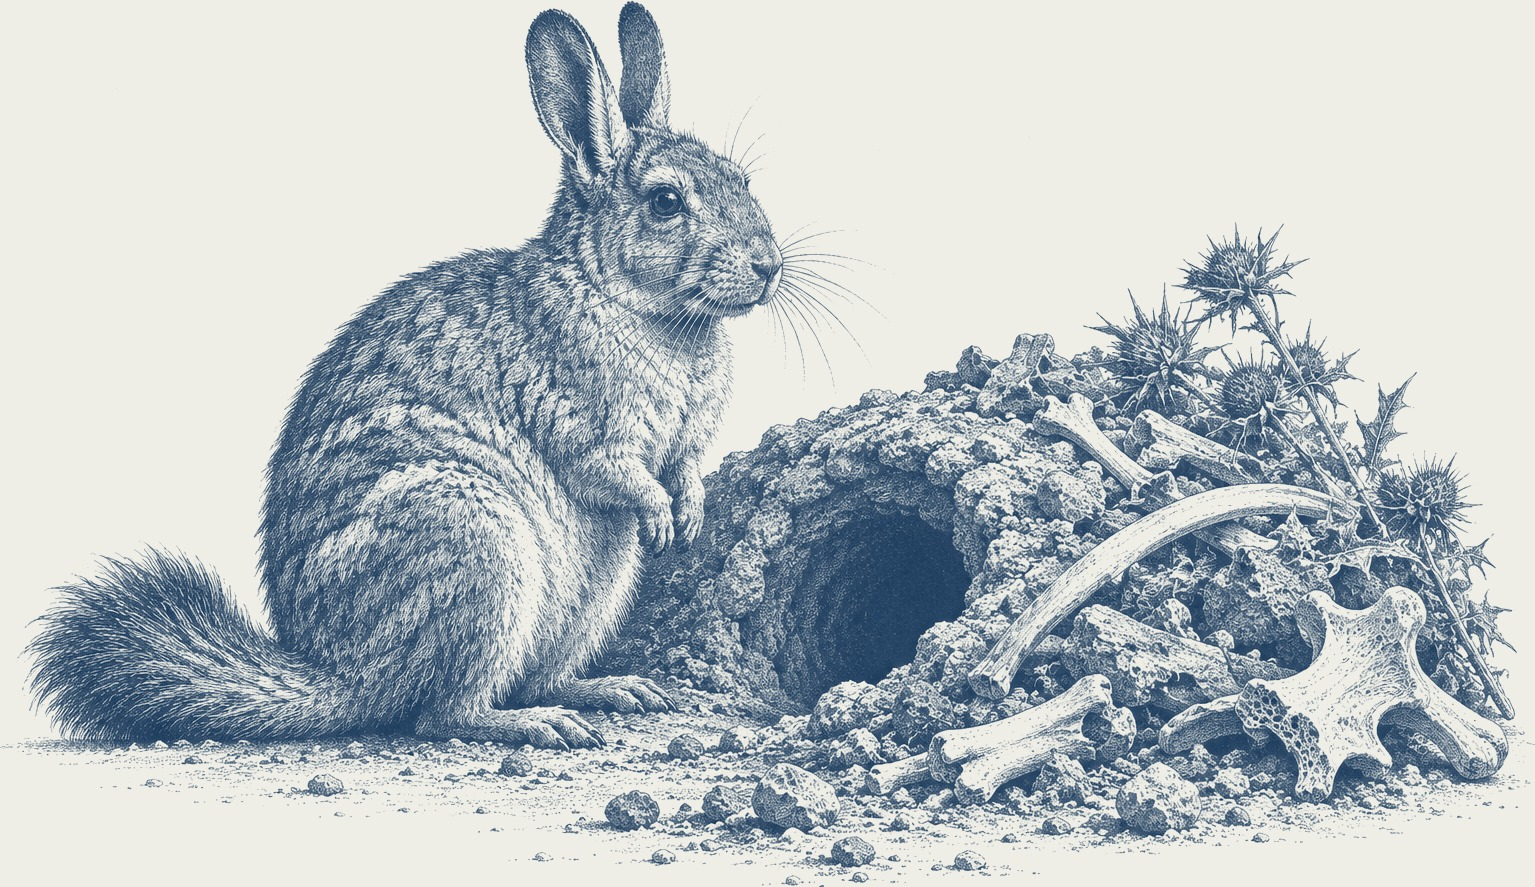
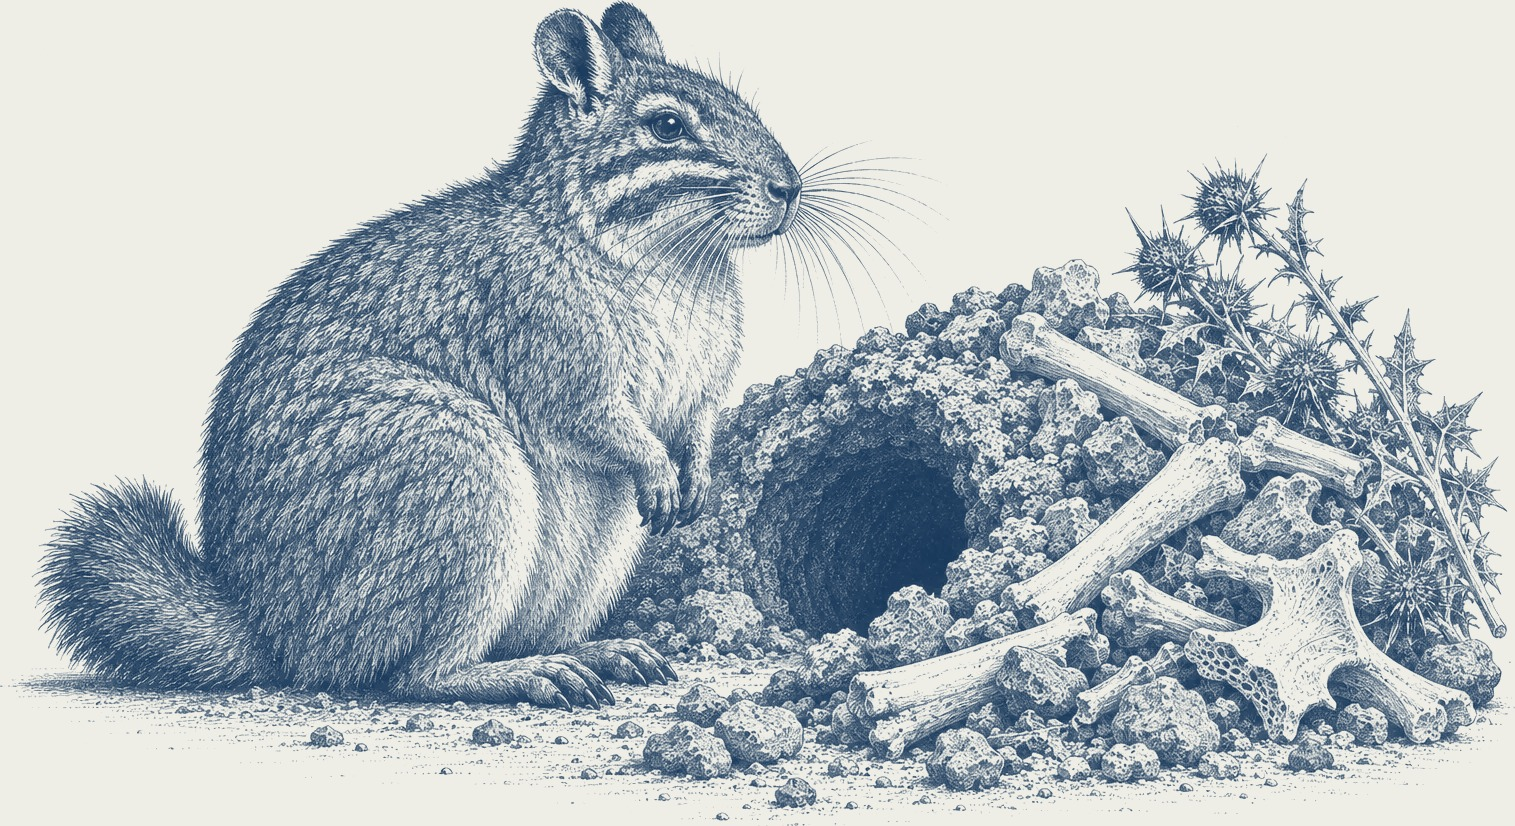
Ficha 17 · Vizcacha: imagen nueva

diff --git a/imprenta.html b/imprenta.html
@@ -791,7 +791,7 @@
   </div>
 </section></div><svg class="marcas" viewBox="0 0 210 297" aria-hidden="true"><path d="M28 31.5V35.5M28 261.5V265.5M102 31.5V35.5M102 261.5V265.5M108 31.5V35.5M108 261.5V265.5M182 31.5V35.5M182 261.5V265.5M19 40.5H23M187 40.5H191M19 145.5H23M187 145.5H191M19 151.5H23M187 151.5H191M19 256.5H23M187 256.5H191"/></svg><p class="pliego__rotulo">Darwin en la Argentina · fichas de campo · pliego 4 de 6 · reverso · fichas 13, 14, 15, 16 · A7 74 × 105 mm · sangrado 3 mm</p></div>
 <div class="pliego"><div class="puesto" style="left:25mm;top:37.5mm"><section class="cara cara--anverso" lang="es">
-  <div class="a-imagen a-imagen--lamina" style="background-image:url(assets/images/17-vizcacha.jpg?v=cd5deab2)" role="img" aria-label="Vizcacha en la boca de su madriguera, junto a un montón de huesos y tallos"></div>
+  <div class="a-imagen a-imagen--lamina" style="background-image:url(assets/images/17-vizcacha.jpg?v=5bc09aa1)" role="img" aria-label="Vizcacha en la boca de su madriguera, junto a un montón de huesos y tallos"></div>
   <div class="caja">
     <p class="a-kicker"><svg class="minitile" viewBox="0 0 28 27" aria-hidden="true"><path class="tile__fill" d="M14 4C20.5 8.5 20.5 17 14 21.5C7.5 17 7.5 8.5 14 4Z"/><path class="tile__line" d="M14 21.5V24.5"/><path class="tile__cut" d="M14 7V21.5M14 11L17 8.8M14 11L11 8.8M14 14.5L17.6 12M14 14.5L10.4 12M14 18L17 15.8M14 18L11 15.8"/></svg><span>Ficha de campo · Fauna</span><span><b>17</b> / 24</span></p>
     <h1 class="a-titulo">Vizcacha</h1>

diff --git a/index.html b/index.html
@@ -794,7 +794,7 @@
   </div>
 </section></div></div>
 <div class="par" id="f17"><div class="recorte"><section class="cara cara--anverso" lang="es">
-  <div class="a-imagen a-imagen--lamina" style="background-image:url(assets/images/17-vizcacha.jpg?v=cd5deab2)" role="img" aria-label="Vizcacha en la boca de su madriguera, junto a un montón de huesos y tallos"></div>
+  <div class="a-imagen a-imagen--lamina" style="background-image:url(assets/images/17-vizcacha.jpg?v=5bc09aa1)" role="img" aria-label="Vizcacha en la boca de su madriguera, junto a un montón de huesos y tallos"></div>
   <div class="caja">
     <p class="a-kicker"><svg class="minitile" viewBox="0 0 28 27" aria-hidden="true"><path class="tile__fill" d="M14 4C20.5 8.5 20.5 17 14 21.5C7.5 17 7.5 8.5 14 4Z"/><path class="tile__line" d="M14 21.5V24.5"/><path class="tile__cut" d="M14 7V21.5M14 11L17 8.8M14 11L11 8.8M14 14.5L17.6 12M14 14.5L10.4 12M14 18L17 15.8M14 18L11 15.8"/></svg><span>Ficha de campo · Fauna</span><span><b>17</b> / 24</span></p>
     <h1 class="a-titulo">Vizcacha</h1>

diff --git a/pantalla.html b/pantalla.html
@@ -810,7 +810,7 @@
   </div>
 </section></div>
 <div class="recorte"><section class="cara cara--anverso" lang="es">
-  <div class="a-imagen a-imagen--lamina" style="background-image:url(assets/images/17-vizcacha.jpg?v=cd5deab2)" role="img" aria-label="Vizcacha en la boca de su madriguera, junto a un montón de huesos y tallos"></div>
+  <div class="a-imagen a-imagen--lamina" style="background-image:url(assets/images/17-vizcacha.jpg?v=5bc09aa1)" role="img" aria-label="Vizcacha en la boca de su madriguera, junto a un montón de huesos y tallos"></div>
   <div class="caja">
     <p class="a-kicker"><svg class="minitile" viewBox="0 0 28 27" aria-hidden="true"><path class="tile__fill" d="M14 4C20.5 8.5 20.5 17 14 21.5C7.5 17 7.5 8.5 14 4Z"/><path class="tile__line" d="M14 21.5V24.5"/><path class="tile__cut" d="M14 7V21.5M14 11L17 8.8M14 11L11 8.8M14 14.5L17.6 12M14 14.5L10.4 12M14 18L17 15.8M14 18L11 15.8"/></svg><span>Ficha de campo · Fauna</span><span><b>17</b> / 24</span></p>
     <h1 class="a-titulo">Vizcacha</h1>

diff --git a/tools/imagenes.py b/tools/imagenes.py
@@ -41,7 +41,7 @@ FICHAS = [
     ('14', 'fogon', '053', 'c', .5, .52),
     ('15', 'cuadricula', '060-afueras.webp', 'l', .5, .5),
     ('16', 'cardal', '065', 'c', .5, .3),
-    ('17', 'vizcacha', '066', 'l', .5, .5),
+    ('17', 'vizcacha', '17-vizcacha.webp', 'l', .5, .5),  # imagen nueva (ChatGPT, 12 oct. 2026): reemplaza la del libro, que parecía un conejo
     ('18', 'parana-rosario', '068', 'c', .5, .5),
     ('19', 'barranca', '070', 'c', .5, .45),
     ('20', 'diente-caballo', '076', 'l', .5, .5),

diff --git a/FICHAS_PROGRESS.md b/FICHAS_PROGRESS.md
@@ -4,7 +4,7 @@ Tercera pieza del sistema «Darwin en la Argentina» (libro + mapa digital + fic
 
 Estados: propuesta / trabajando / revisión / APROBADA.
 
-Resumen (12 oct. 2026): 24 de 24 fichas en revisión · sistema y lista aprobados por Patricio · pendientes: vizcacha nueva (17) y mockup de la pág. 007.
+Resumen (12 oct. 2026): 24 de 24 fichas en revisión · sistema y lista aprobados por Patricio · pendiente: mockup de la pág. 007.
 
 ## Sistema (aprobado por Patricio el 12 oct. 2026, con el QR agrandado)
 - Formato: A7 vertical, 74 × 105 mm, sangrado 3 mm (TP4). Línea de base de 3,75 mm = 28 líneas, como las 28 del libro. Márgenes laterales 5 mm.
@@ -44,7 +44,7 @@ Resumen (12 oct. 2026): 24 de 24 fichas en revisión · sistema y lista aprobado
 | 14 | 07 | El fogón | Observación | 053 | 053 | revisión |
 | 15 | 08 | La cuadrícula | Territorio | 061 | 060-afueras | revisión |
 | 16 | 09 | Cardos gigantes | Flora | 065 | 065 | revisión |
-| 17 | 09 | Vizcacha | Fauna | 066 | 066 (parece un conejo) | revisión |
+| 17 | 09 | Vizcacha | Fauna | 066 | assets/originales/17-vizcacha.webp (nueva) | revisión |
 | 18 | 09 | El Paraná en Rosario | Territorio | 068 | 068 | revisión |
 | 19 | 10 | El mastodonte | Fósil | 071 | 070 | revisión |
 | 20 | 11 | Diente de caballo | Fósil | 076–077 | 076 | revisión |
@@ -69,7 +69,7 @@ Resumen (12 oct. 2026): 24 de 24 fichas en revisión · sistema y lista aprobado
 
 ## Problemas abiertos
 - Ficha 21: RESUELTO el 12 oct. 2026. Imagen generada por Patricio en ChatGPT con el prompt entregado (camino desierto, piquete en el puente, viajero solo, ciudad al fondo); original en assets/originales/, 488 ppp. Texto de la pág. 083, cotejado (cap. VII). El juego queda en 24: 6 pliegos completos.
-- Ficha 17: la vizcacha del libro parece un conejo (pendiente también en el libro).
+- Ficha 17: RESUELTO el 12 oct. 2026. Vizcacha nueva generada por Patricio en ChatGPT (orejas cortas, franjas en la cara, bigotes largos); original en assets/originales/, 595 ppp. La página 066 del LIBRO sigue con la imagen vieja: se puede reemplazar con esta si Patricio lo autoriza.
 - La web tiene 9 puntos sin número; el libro y las fichas, 15 paradas numeradas. El QR lleva al mapa en general, no a una parada.
 - El «Cuaderno de campo» de la web tiene registros (ñandú, armadillos, hornero, zorrillo) cuyo texto no está en la selección v2: quedan fuera salvo que Patricio autorice ampliar la selección. El Toxodon tiene texto (pág. 039) pero no lámina en el libro.
 - El PDF de Chrome sale de 74,1 × 105,2 mm y el A4 de 209,9 × 297 mm (redondeo a píxel, igual que en el libro).
